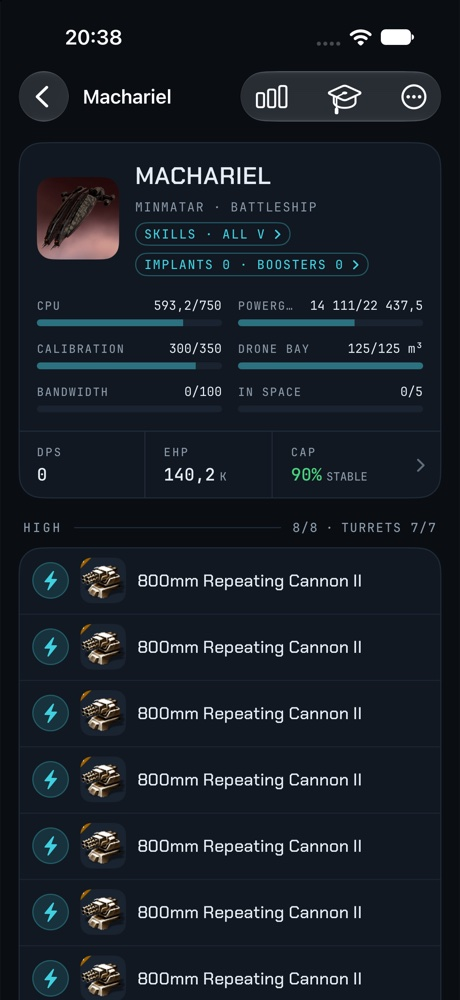
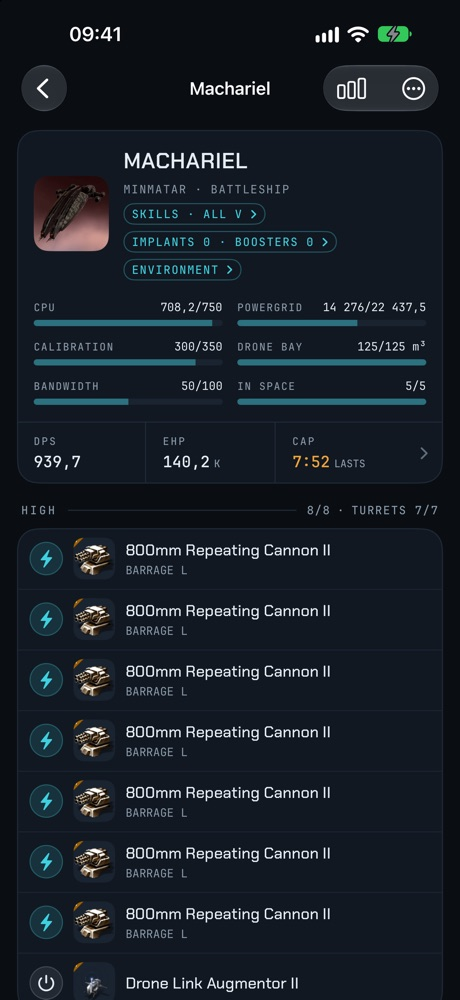
Site: replace screenshots with the 3.0 set

diff --git a/site/index.html b/site/index.html
@@ -62,10 +62,10 @@ View source on GitHub
 <div class="devices">
 <div class="devices-glow"></div>
 <div class="frame frame-ipad">
-<img src="assets/screens/ipad-fittingeditor.jpg" alt="Neocom on iPad: the fitting editor for a Machariel with slots, resources and tank stats" width="1800" height="1350" decoding="async">
+<img src="assets/screens/ipad-fittingeditor.jpg" alt="Neocom on iPad: the fitting editor for a Machariel with the sidebar, slots, tank, repair and damage stats" width="1800" height="1350" decoding="async">
 </div>
 <div class="frame frame-phone">
-<img src="assets/screens/iphone-mainscreen.jpg" alt="Neocom on iPhone: the home screen with the pilot card and section tiles" width="460" height="1000" decoding="async">
+<img src="assets/screens/iphone-mainscreen.jpg" alt="Neocom on iPhone: the home screen with server status, the pilot card and section tiles" width="460" height="1000" decoding="async">
 </div>
 </div>
 </div>
@@ -117,10 +117,10 @@ View source on GitHub
 </div>
 <div class="fit-shots">
 <div class="frame frame-phone">
-<img src="assets/screens/iphone-fittingeditor.jpg" alt="Fitting editor on iPhone: Machariel with CPU, powergrid, calibration and its high slots" width="460" height="1000" loading="lazy" decoding="async">
+<img src="assets/screens/iphone-fittingeditor.jpg" alt="Fitting editor on iPhone: Machariel with resources, 939.7 DPS, 140.2k EHP, capacitor lasting 7:52 and high slots with 800mm Repeating Cannon II" width="460" height="1000" loading="lazy" decoding="async">
 </div>
 <div class="frame frame-phone">
-<img src="assets/screens/iphone-fittingeditorstats.jpg" alt="Fit stats on iPhone: EHP, capacitor, resists per layer and repair rates" width="460" height="1000" loading="lazy" decoding="async">
+<img src="assets/screens/iphone-fittingeditorstats.jpg" alt="Fit stats on iPhone: DPS and volley, damage pattern, resists per layer and repair rates, peak and sustained" width="460" height="1000" loading="lazy" decoding="async">
 </div>
 </div>
 </div>
@@ -136,33 +136,27 @@ View source on GitHub
 <div class="shots">
 <figure class="shot">
 <div class="frame frame-phone">
-<img src="assets/screens/iphone-charactersheet.jpg" alt="Character sheet on iPhone with portrait, bio, current ship and wallet balance" width="460" height="1000" loading="lazy" decoding="async">
+<img src="assets/screens/iphone-widgets.jpg" alt="Home Screen widgets on iPhone showing several pilots' skill queues in small, medium and wide sizes" width="460" height="1000" loading="lazy" decoding="async">
 </div>
-<figcaption><span>Character Sheet</span><span>Bio, location, wallet, skill points.</span></figcaption>
+<figcaption><span>Widgets</span><span>Every pilot's queue on the Home Screen.</span></figcaption>
 </figure>
 <figure class="shot">
 <div class="frame frame-phone">
-<img src="assets/screens/iphone-itemmarketorders.jpg" alt="Market screen for the Dominix in The Forge with price history chart" width="460" height="1000" loading="lazy" decoding="async">
+<img src="assets/screens/iphone-assets.jpg" alt="Assets on iPhone: 46 locations, 21 275 items and 82 ships, grouped by region with a search field" width="460" height="1000" loading="lazy" decoding="async">
 </div>
-<figcaption><span>Market</span><span>Prices, spread and 30-day history.</span></figcaption>
+<figcaption><span>Assets</span><span>Every hangar, grouped by region, searchable.</span></figcaption>
 </figure>
 <figure class="shot">
 <div class="frame frame-phone">
-<img src="assets/screens/iphone-planetarycolonyinfo.jpg" alt="Planetary colony screen with storage, forecast and production chain" width="460" height="1000" loading="lazy" decoding="async">
+<img src="assets/screens/iphone-trainingqueue.jpg" alt="Training queue on iPhone: the current skill with progress and the rest of the in-game queue" width="460" height="1000" loading="lazy" decoding="async">
 </div>
-<figcaption><span>Planetary colony</span><span>A forecast of what stops and when.</span></figcaption>
+<figcaption><span>Training Queue</span><span>What trains now and what comes next.</span></figcaption>
 </figure>
 <figure class="shot">
 <div class="frame frame-phone">
-<img src="assets/screens/iphone-planetaryecu.jpg" alt="Extractor screen with a yield-per-cycle chart and current cycle timer" width="460" height="1000" loading="lazy" decoding="async">
+<img src="assets/screens/iphone-planetary.jpg" alt="Planetary colony card on iPhone: planet, Biocells (P2, 2.3/h), extractors finishing in 4d 23h and a warning about unused materials" width="460" height="1000" loading="lazy" decoding="async">
 </div>
-<figcaption><span>Extractor</span><span>Yield per cycle, the current one live.</span></figcaption>
-</figure>
-<figure class="shot">
-<div class="frame frame-phone">
-<img src="assets/screens/iphone-sdeiteminfo.jpg" alt="Dominix item info with market prices, description and required skills" width="460" height="1000" loading="lazy" decoding="async">
-</div>
-<figcaption><span>Database</span><span>Every item, offline, with skills to fly it.</span></figcaption>
+<figcaption><span>Planetary Interaction</span><span>When extractors finish and what is stuck.</span></figcaption>
 </figure>
 </div>
 </div>
@@ -173,10 +167,10 @@ View source on GitHub
 <div class="ipad-copy">
 <div class="eyebrow">// iPad</div>
 <h2 class="h2 h2-sm">Room for the whole picture.</h2>
-<p>On iPad the section list stays beside the detail, so you jump from the character sheet to the market without losing your place.</p>
+<p>On iPad the section list stays beside the detail, so you jump from your assets to the training queue without losing your place.</p>
 </div>
 <div class="frame frame-ipad ipad-shot">
-<img src="assets/screens/ipad-charactersheet.jpg" alt="Character sheet on iPad: sidebar with sections next to the pilot's bio, location, wallet and skills" width="1800" height="1350" loading="lazy" decoding="async">
+<img src="assets/screens/ipad-assets.jpg" alt="Assets on iPad: the section sidebar beside the asset list grouped by region" width="1800" height="1350" loading="lazy" decoding="async">
 </div>
 </div>
 </section>

diff --git a/Neocom/Neocom/UI/Fittings/FittingEditorView.swift b/Neocom/Neocom/UI/Fittings/FittingEditorView.swift
@@ -168,23 +168,16 @@ struct FittingEditorView: View {
                 }
             }
             ToolbarItem(placement: .primaryAction) {
-                Button("Skills", systemImage: "graduationcap") {
-                    isSkillsSheetPresented = true
-                }
-                // Needs an open fit.
-                .disabled(model?.snapshot == nil)
-            }
-            ToolbarItem(placement: .primaryAction) {
                 Menu {
                     if let shownFittingID, fittings.isDraft(shownFittingID) {
                         Button("Save", systemImage: "square.and.arrow.down") {
                             fittings.persist(shownFittingID)
                         }
                     }
-                    Button("Rename") {
+                    Button("Rename", systemImage: "pencil") {
                         isRenameAlertPresented = true
                     }
-                    Button("Notes") {
+                    Button("Notes", systemImage: "square.and.pencil") {
                         isNotesSheetPresented = true
                     }
                     if accounts.currentFittings != nil {
